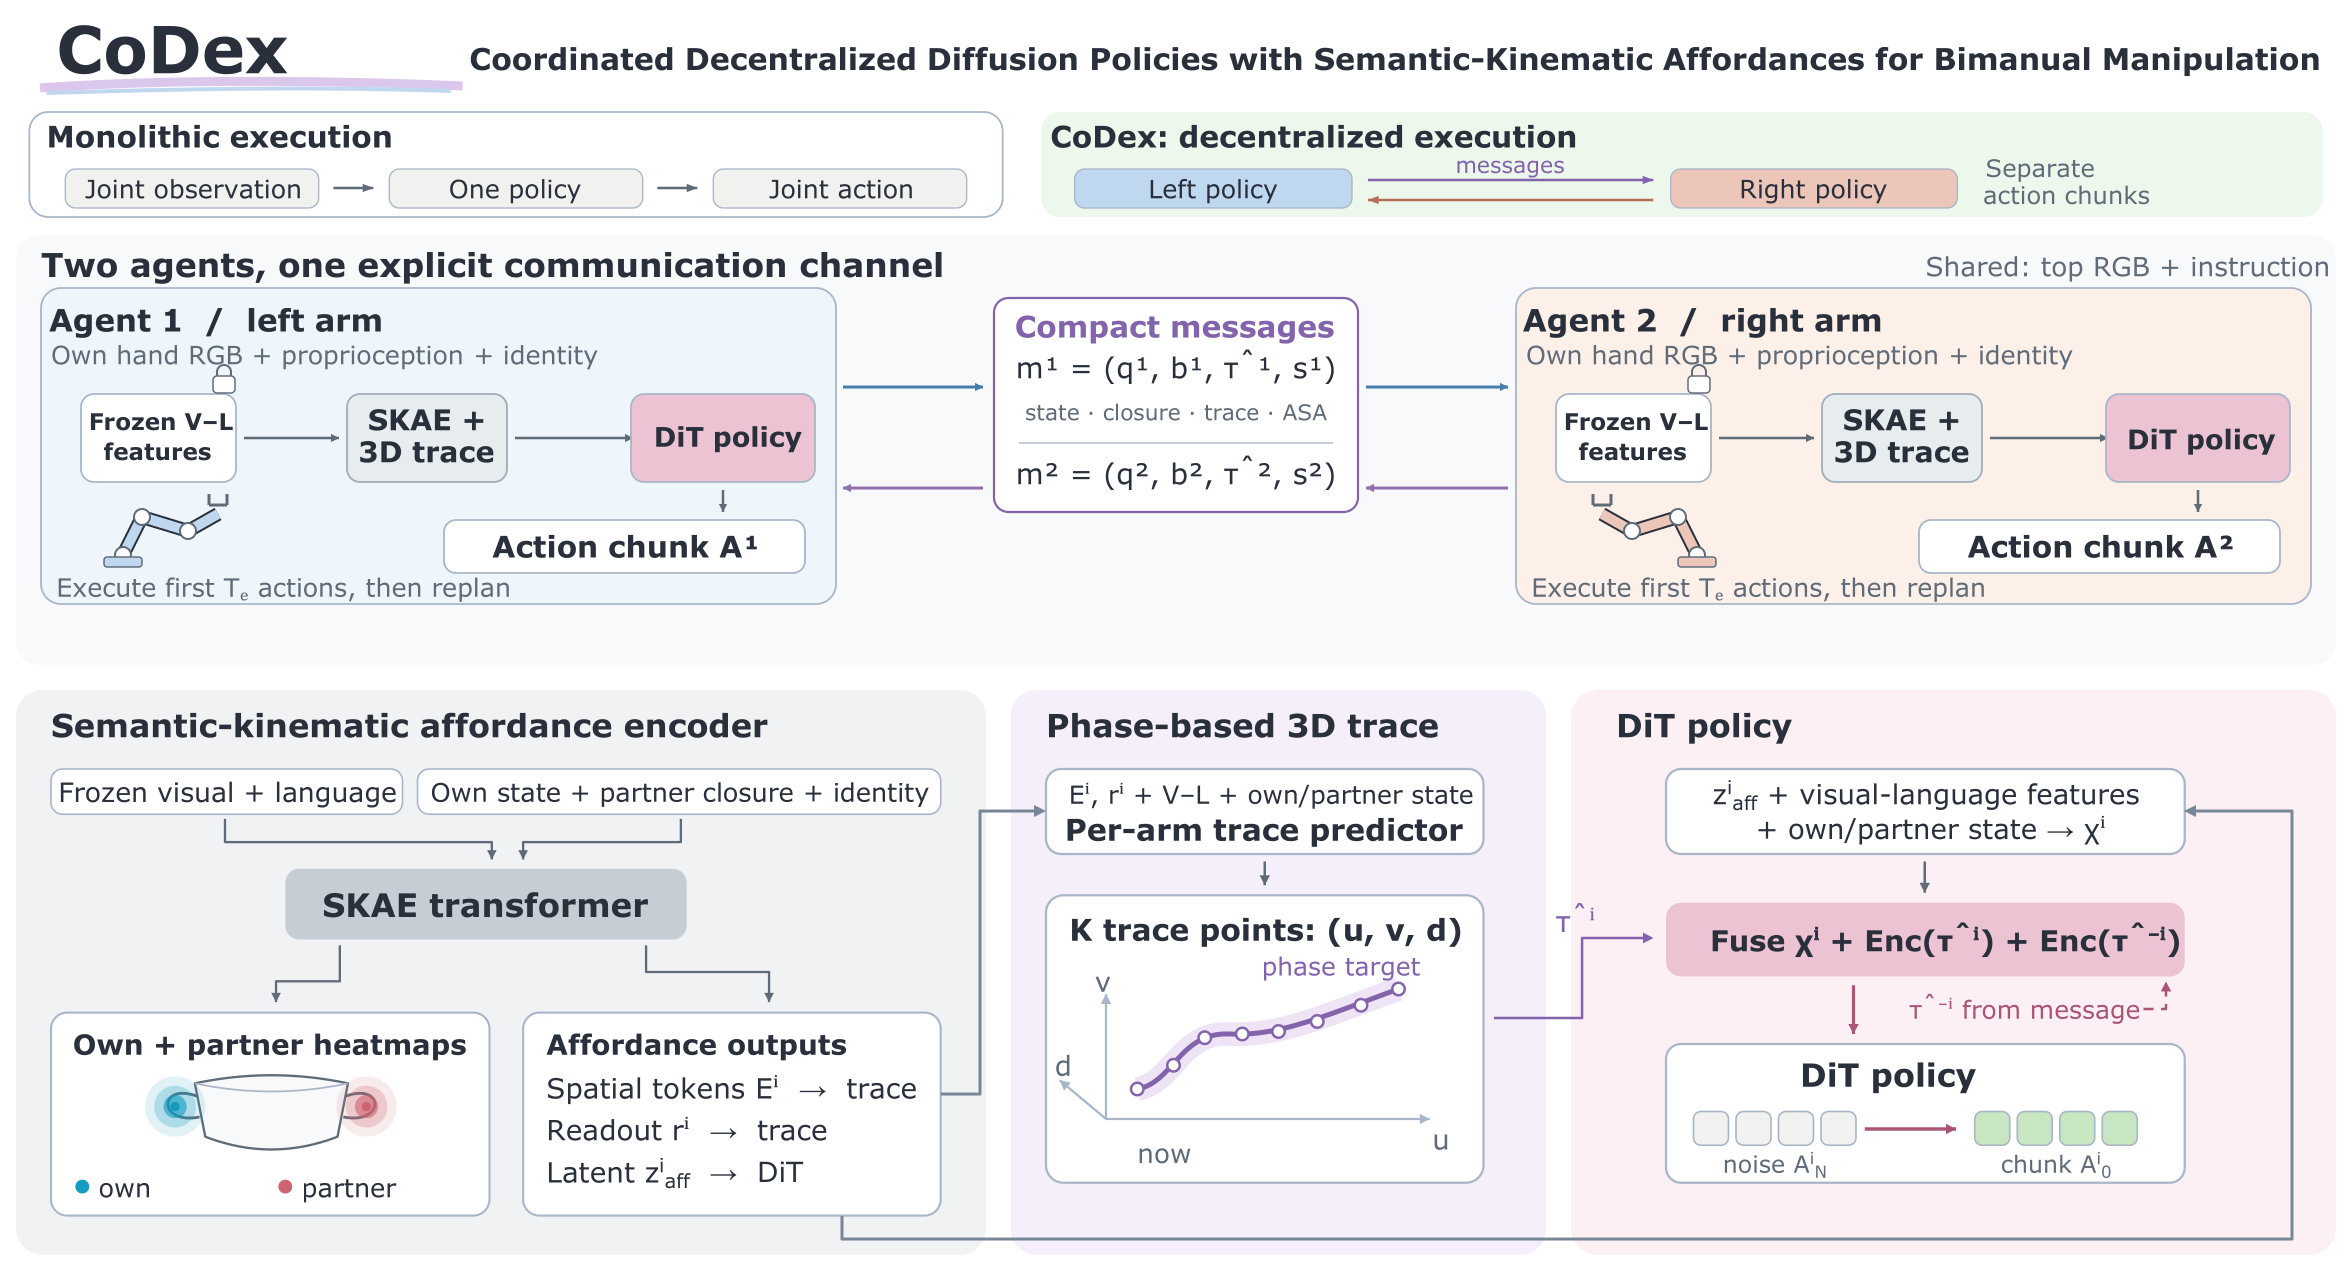
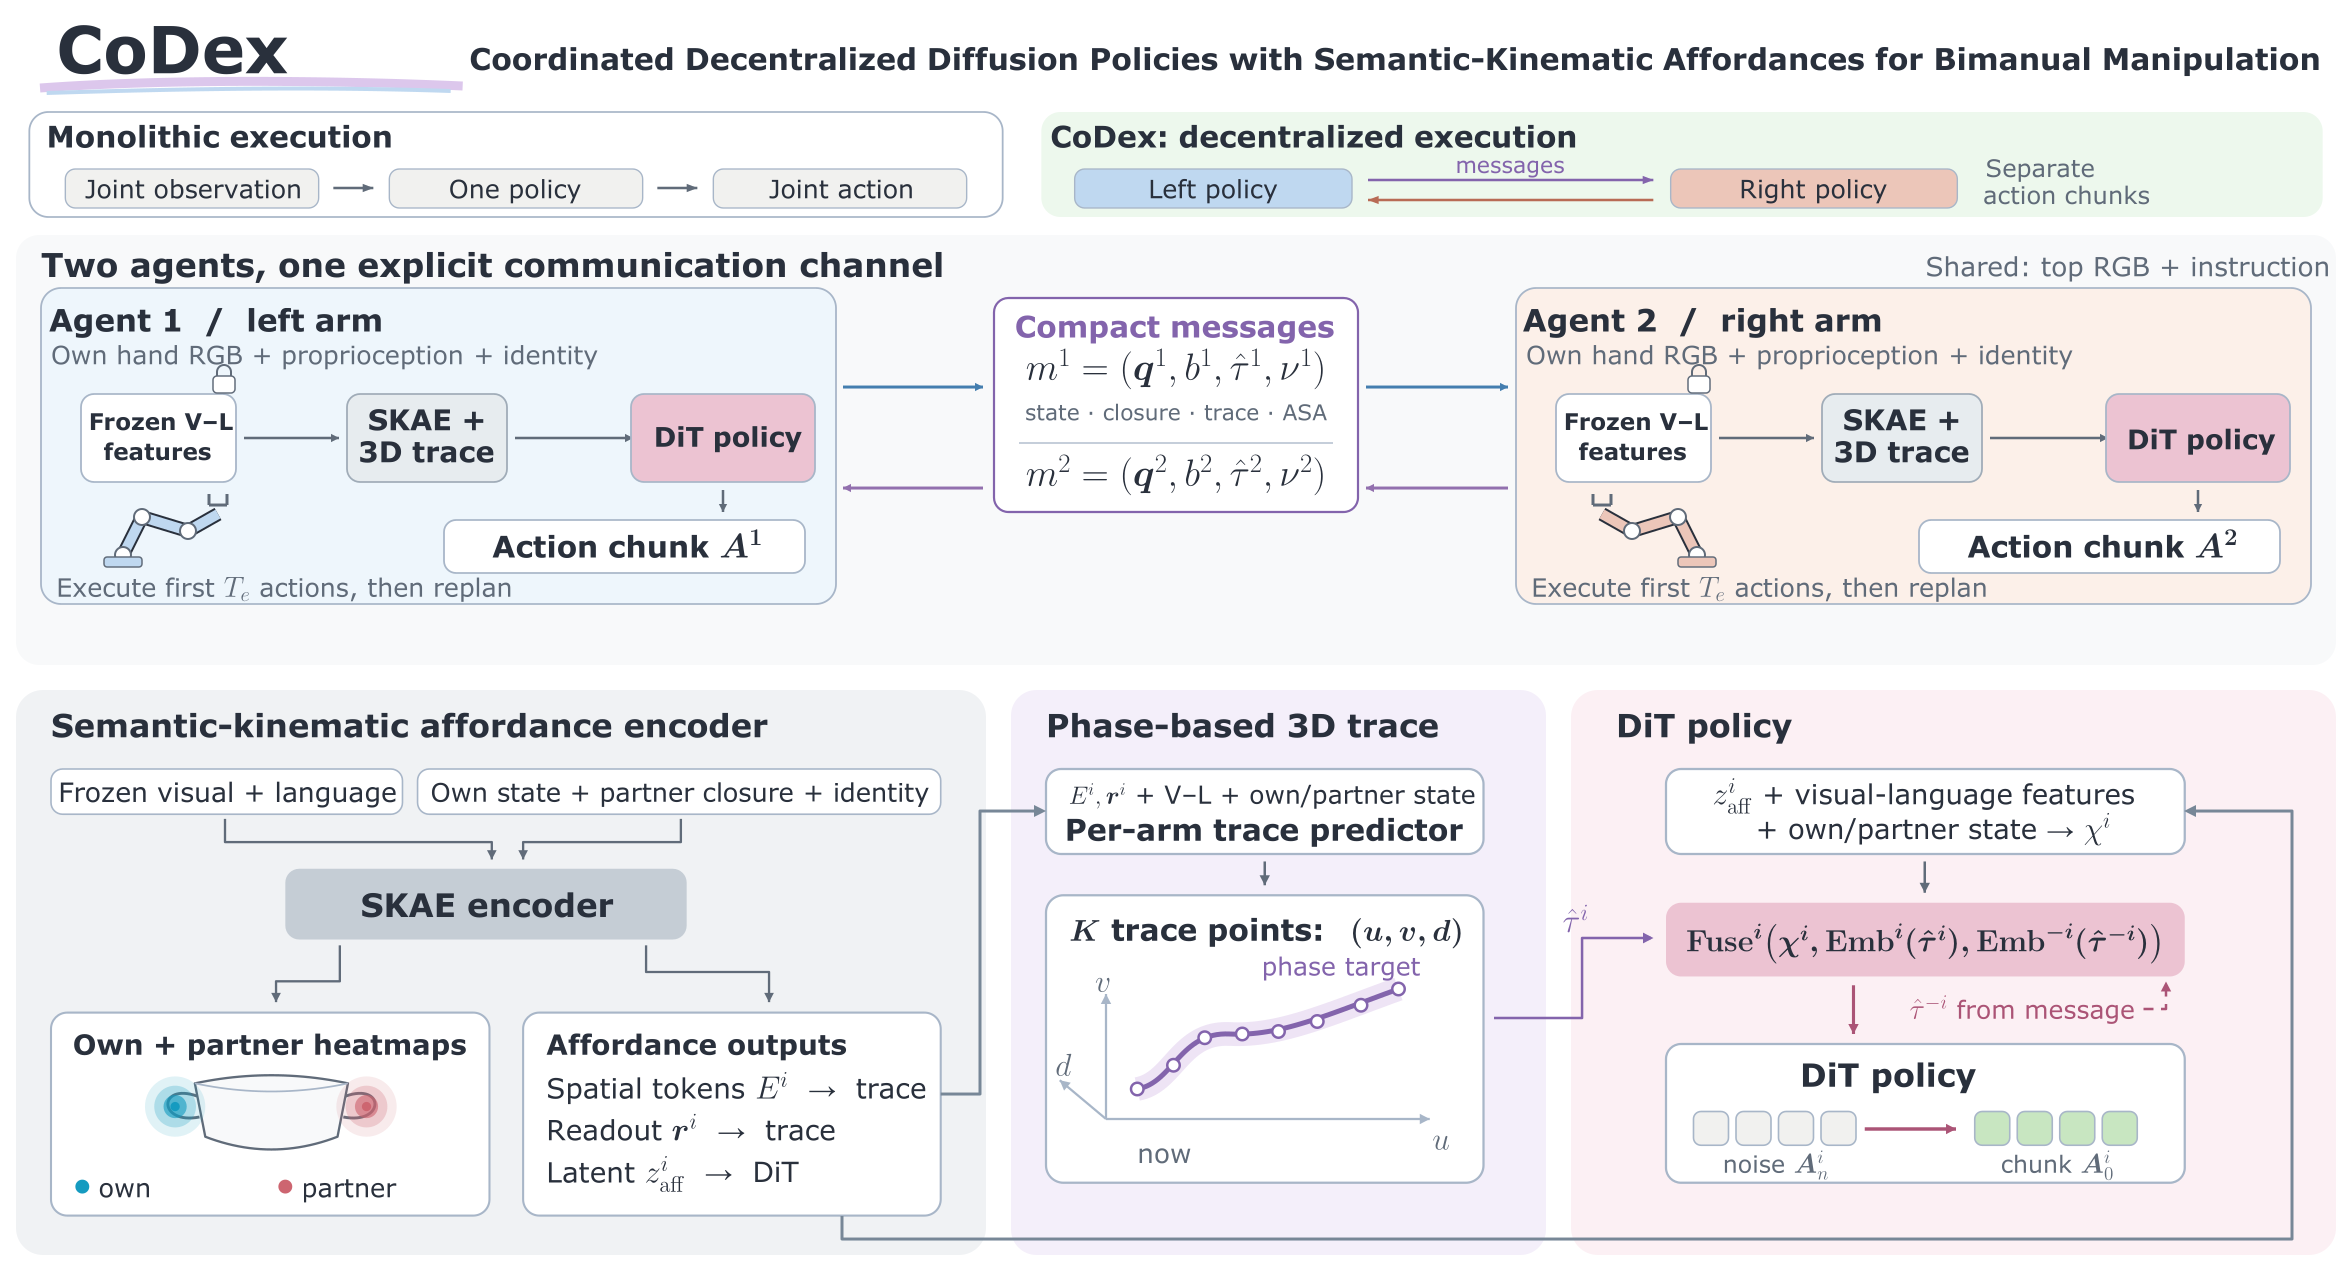
.

diff --git a/codex/index.html b/codex/index.html
@@ -184,7 +184,7 @@
         \pi(\mathbf{a}_t \mid s_t) = \pi^1_{\theta^1}\!\left(a^1_t \mid o^1_t, m^2_t\right)\,
                                     \pi^2_{\theta^2}\!\left(a^2_t \mid o^2_t, m^1_t\right)
       \]
-      \[ m^i_t = \left(\mathbf{q}^i_t,\; b^i_t,\; \hat{\tau}^i_t,\; s^i_t\right) \]
+      \[ m^i_t = \left(\mathbf{q}^i_t,\; b^i_t,\; \hat{\tau}^i_t,\; \nu^i_t\right) \]
       <div class="eq-note">Trained jointly (centralized training), executed separately (decentralized execution).</div>
     </div>
 
@@ -193,17 +193,14 @@
         <span class="tag">Where to act</span>
         <h3>Semantic-kinematic affordance encoder</h3>
         <p>
-          From frozen DINOv3 and SigLIP&nbsp;2 features, the arm's state, and its partner's closure bit, a transformer
-          predicts two heatmaps: where this arm should act and where its partner should act. An ASA head
-          outputs a logit that, normalized against the partner's logit from the message, gives the ASA score:
-          how likely the current affordance belongs to this arm. Targets mark the next contact, masked to the
-          contacted part with SAM&nbsp;2.
+          From frozen DINOv3 and SigLIP&nbsp;2 features, the arm's state, and its partner's closure bit, an encoder
+          predicts where this arm and its partner should act, and an agent-specific affordance (ASA) score for which
+          arm the affordance belongs to. Targets mark the next contact, masked to the contacted part with SAM&nbsp;2.
         </p>
         <p>
-          The affordance is <em>semantic</em> because it is read from visual-language features of the scene and
-          instruction and supervised on the contacted object part. It is <em>kinematic</em> because it depends on
-          the arm's state and its partner's closure bit and targets each arm's next contact, so it changes as the
-          task progresses.
+          The affordance is <em>semantic</em>, read from visual-language features and supervised on the contacted
+          object part, and <em>kinematic</em>, conditioned on the arm's state and its partner's closure bit and
+          targeting each arm's next contact.
         </p>
       </div>
       <div class="component">
@@ -219,8 +216,8 @@
         <span class="tag">How to act together</span>
         <h3>Communication and DiT policy</h3>
         <p>
-          The partner's state and closure bit join the arm's conditioning state, its ASA logit normalizes the arm's
-          ASA score, and its trace is fused with the arm's own. A diffusion transformer then denoises that arm's action chunk. Real-time chunking keeps
+          The partner's state, closure bit, and ASA logit join the arm's inputs, and its trace is fused with the
+          arm's own. A diffusion transformer then denoises that arm's action chunk. Real-time chunking keeps
           consecutive chunks consistent during closed-loop execution.
         </p>
       </div>
